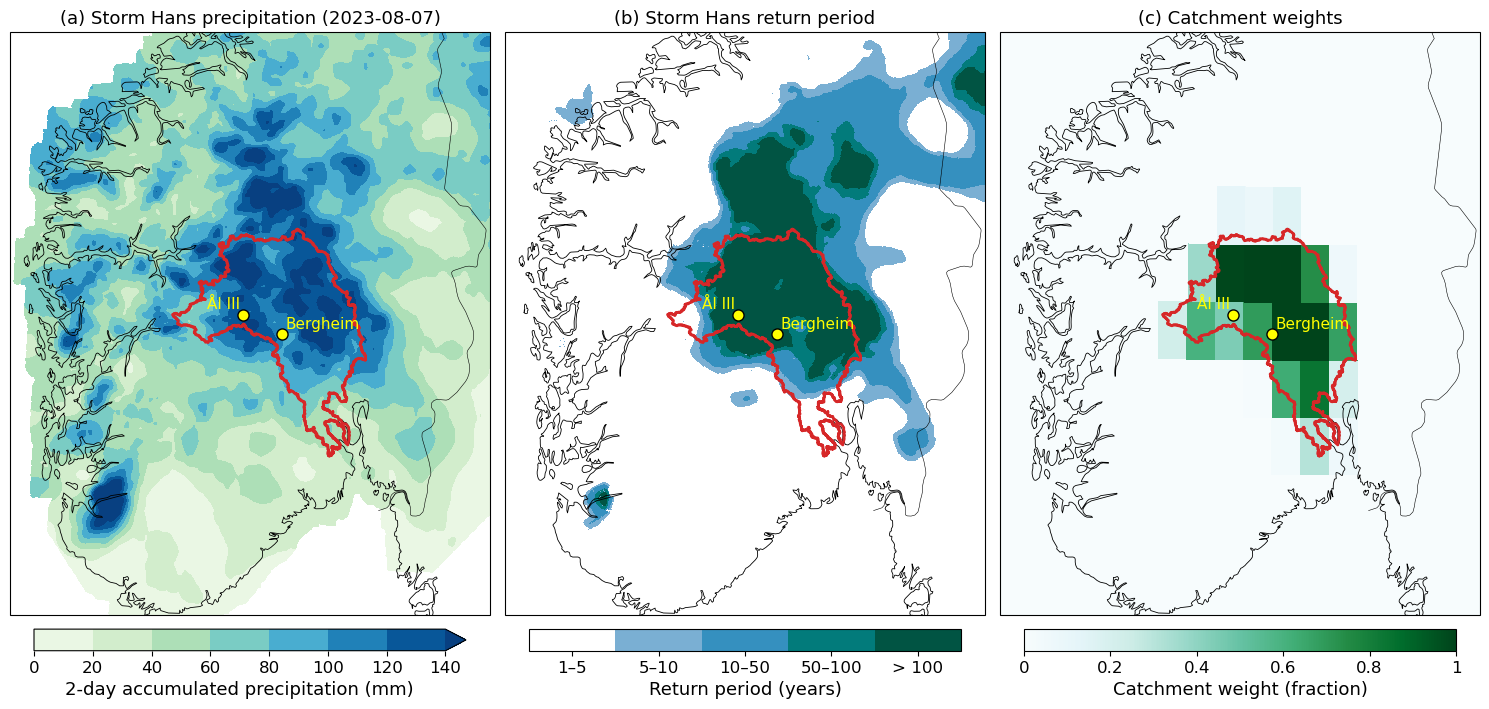
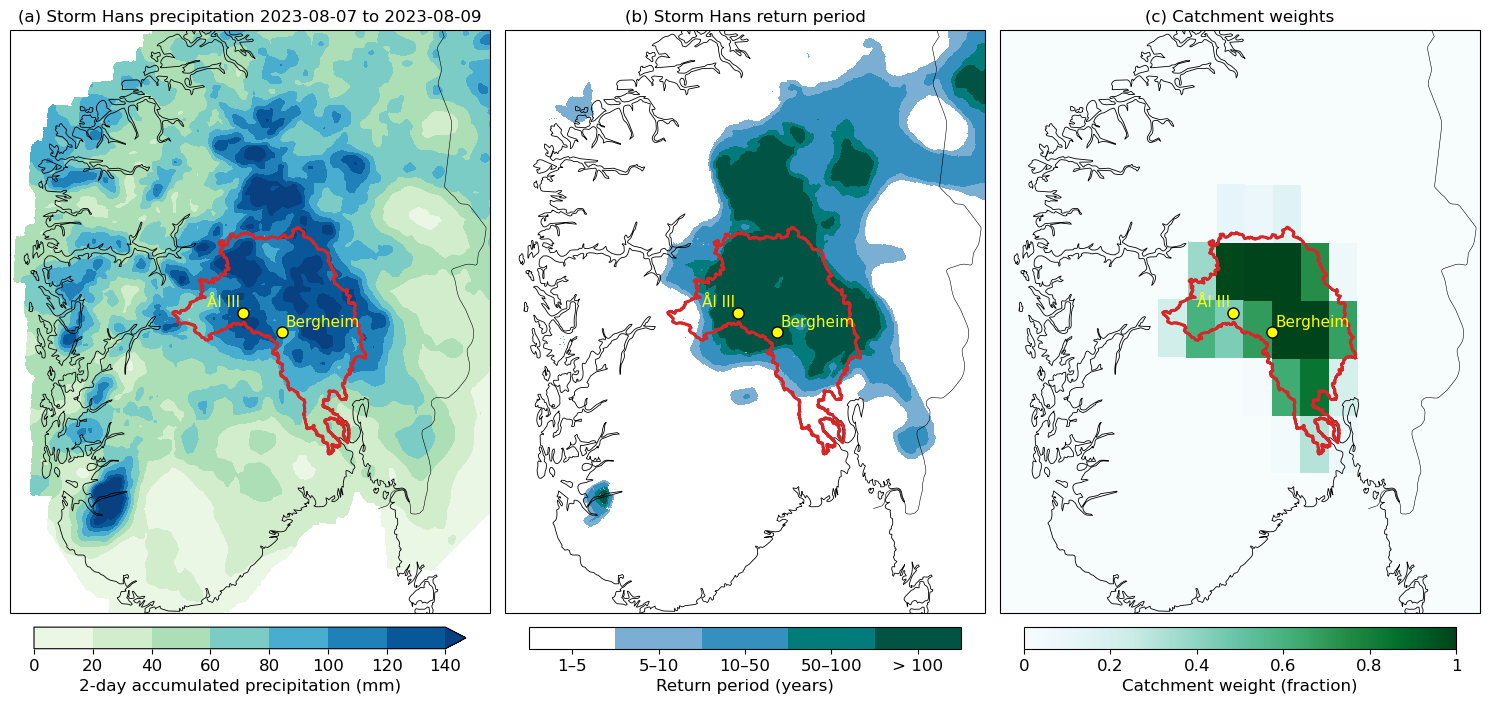
update

diff --git a/code/plot/plot-fig-01.py b/code/plot/plot-fig-01.py
@@ -1,5 +1,5 @@
 """
-Plot Storm Hans precipitation, return period, and catchment weights side by side.
+Fig 1 for hans paper. Plot Storm Hans precipitation, return period, and catchment weights side by side.
 
 The script:
 1. Reads precipitation and return period from seNorge NetCDF
@@ -182,7 +182,7 @@ def plot_precipitation(ax, da, lon, lat, proj_data):
         shrink=0.9,
         pad=0.02,
     )
-    cbar.set_label("2-day accumulated precipitation (mm)",fontsize=13)
+    cbar.set_label("2-day accumulated precipitation (mm)",fontsize=12)
     cbar.ax.set_xticklabels(np.arange(0,160,20),fontsize=12)
     
     return cf
@@ -234,7 +234,7 @@ def plot_return_period(ax, da, lon, lat, proj_data):
         ticks=np.arange(len(CATEGORY_LABELS)),
     )
     cbar.ax.set_xticklabels(CATEGORY_LABELS,fontsize=12)
-    cbar.set_label("Return period (years)",fontsize=13)
+    cbar.set_label("Return period (years)",fontsize=12)
 
     return mesh
 
@@ -295,7 +295,7 @@ def plot_weights(ax, da_weights, proj_data):
         shrink=0.9,
         pad=0.02,
     )
-    cbar.set_label("Catchment weight (fraction)",fontsize=13)
+    cbar.set_label("Catchment weight (fraction)",fontsize=12)
     cbar.ax.set_xticklabels([0,0.2,0.4,0.6,0.8,1],fontsize=12)
     
     return mesh
@@ -348,9 +348,9 @@ def plot_station_markers(ax, stations, proj_data):
 
 def finalize_figure(fig, axes, savepath=None, write2file=False):
     """Add titles, layout, optionally save, and show."""
-    axes[0].set_title("(a) Storm Hans precipitation (2023-08-07)", fontsize=13)
-    axes[1].set_title("(b) Storm Hans return period", fontsize=13)
-    axes[2].set_title("(c) Catchment weights", fontsize=13)
+    axes[0].set_title("(a) Storm Hans precipitation 2023-08-07 to 2023-08-09", fontsize=12)
+    axes[1].set_title("(b) Storm Hans return period", fontsize=12)
+    axes[2].set_title("(c) Catchment weights", fontsize=12)
 
     
     fig.subplots_adjust(wspace=0.01, bottom=0.0, top=1.0)

diff --git a/code/plot/plot-fig-02.py b/code/plot/plot-fig-02.py
@@ -1,5 +1,5 @@
 """
-Draft figure 01 for Hans paper: observational time series only.
+figure 02 for Hans paper: observational time series only.
 
 3-panel plot:
   (1) Snow depth
